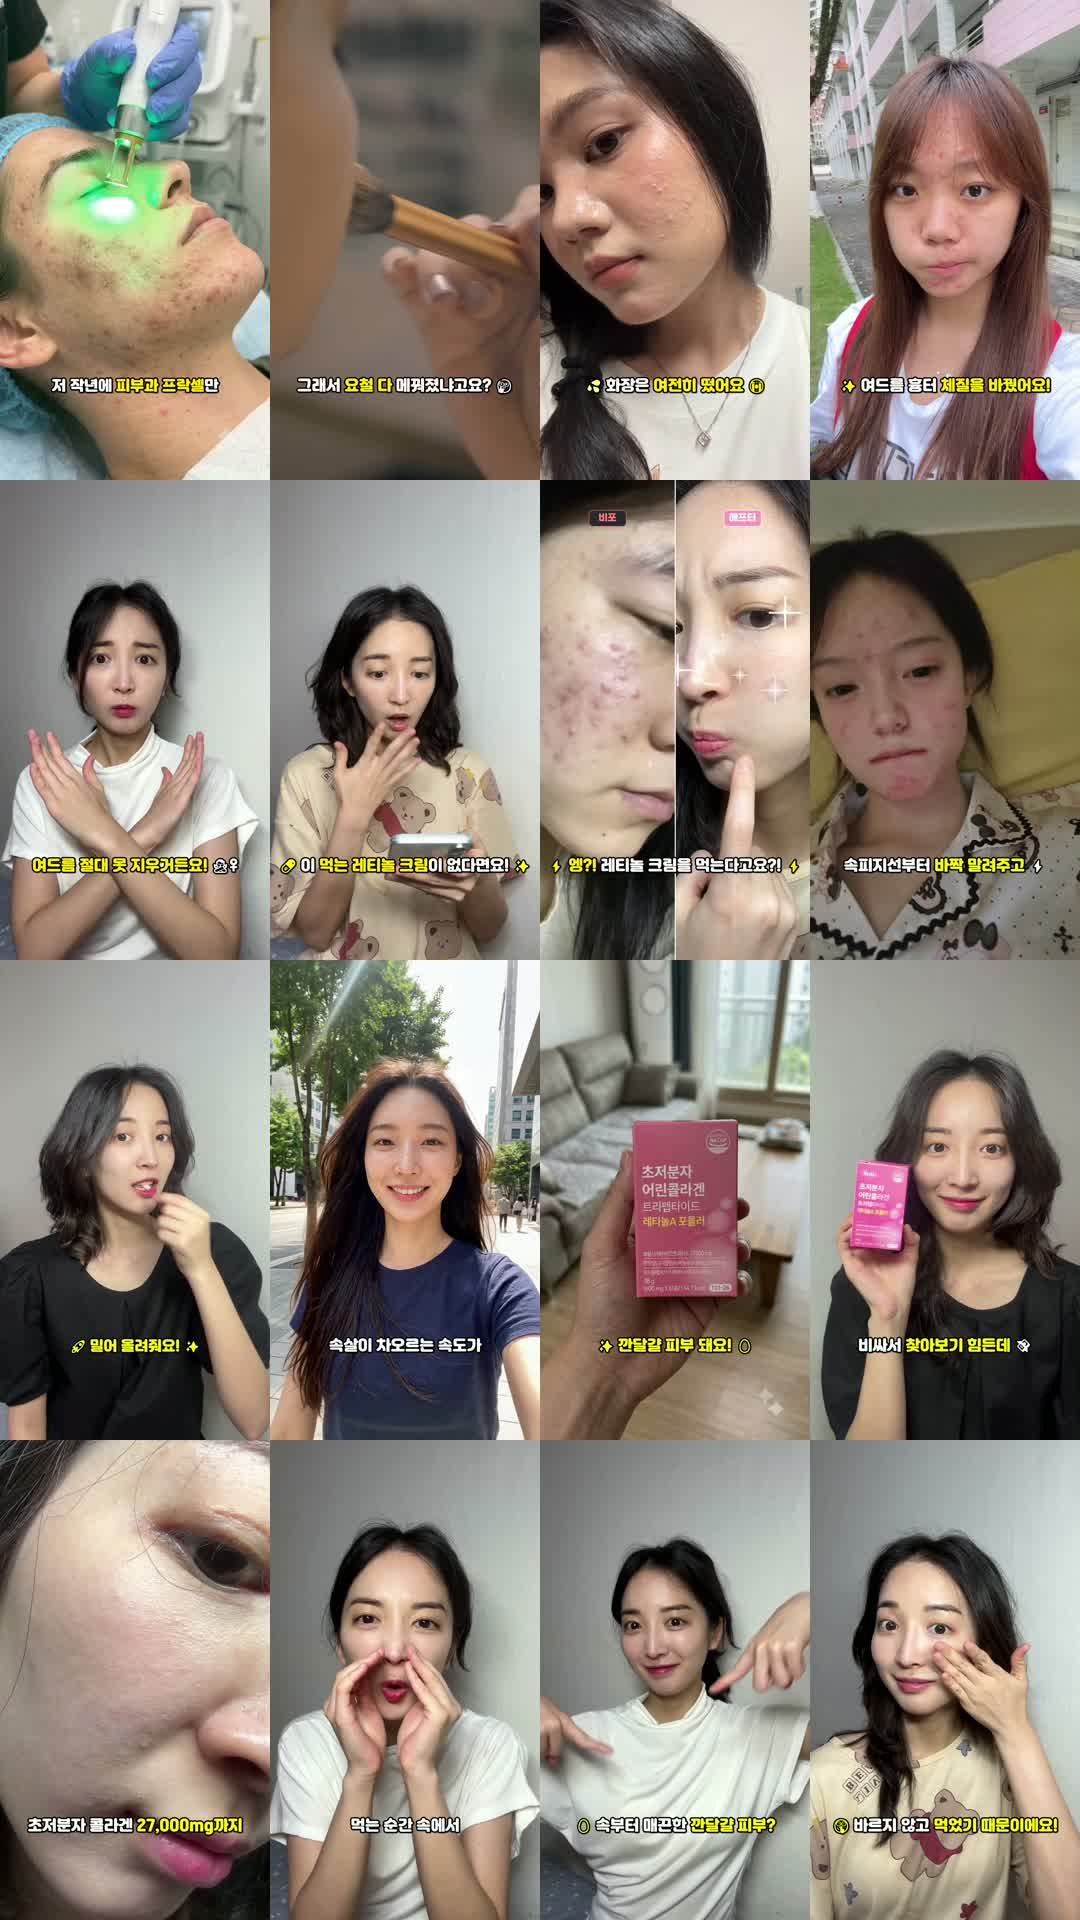
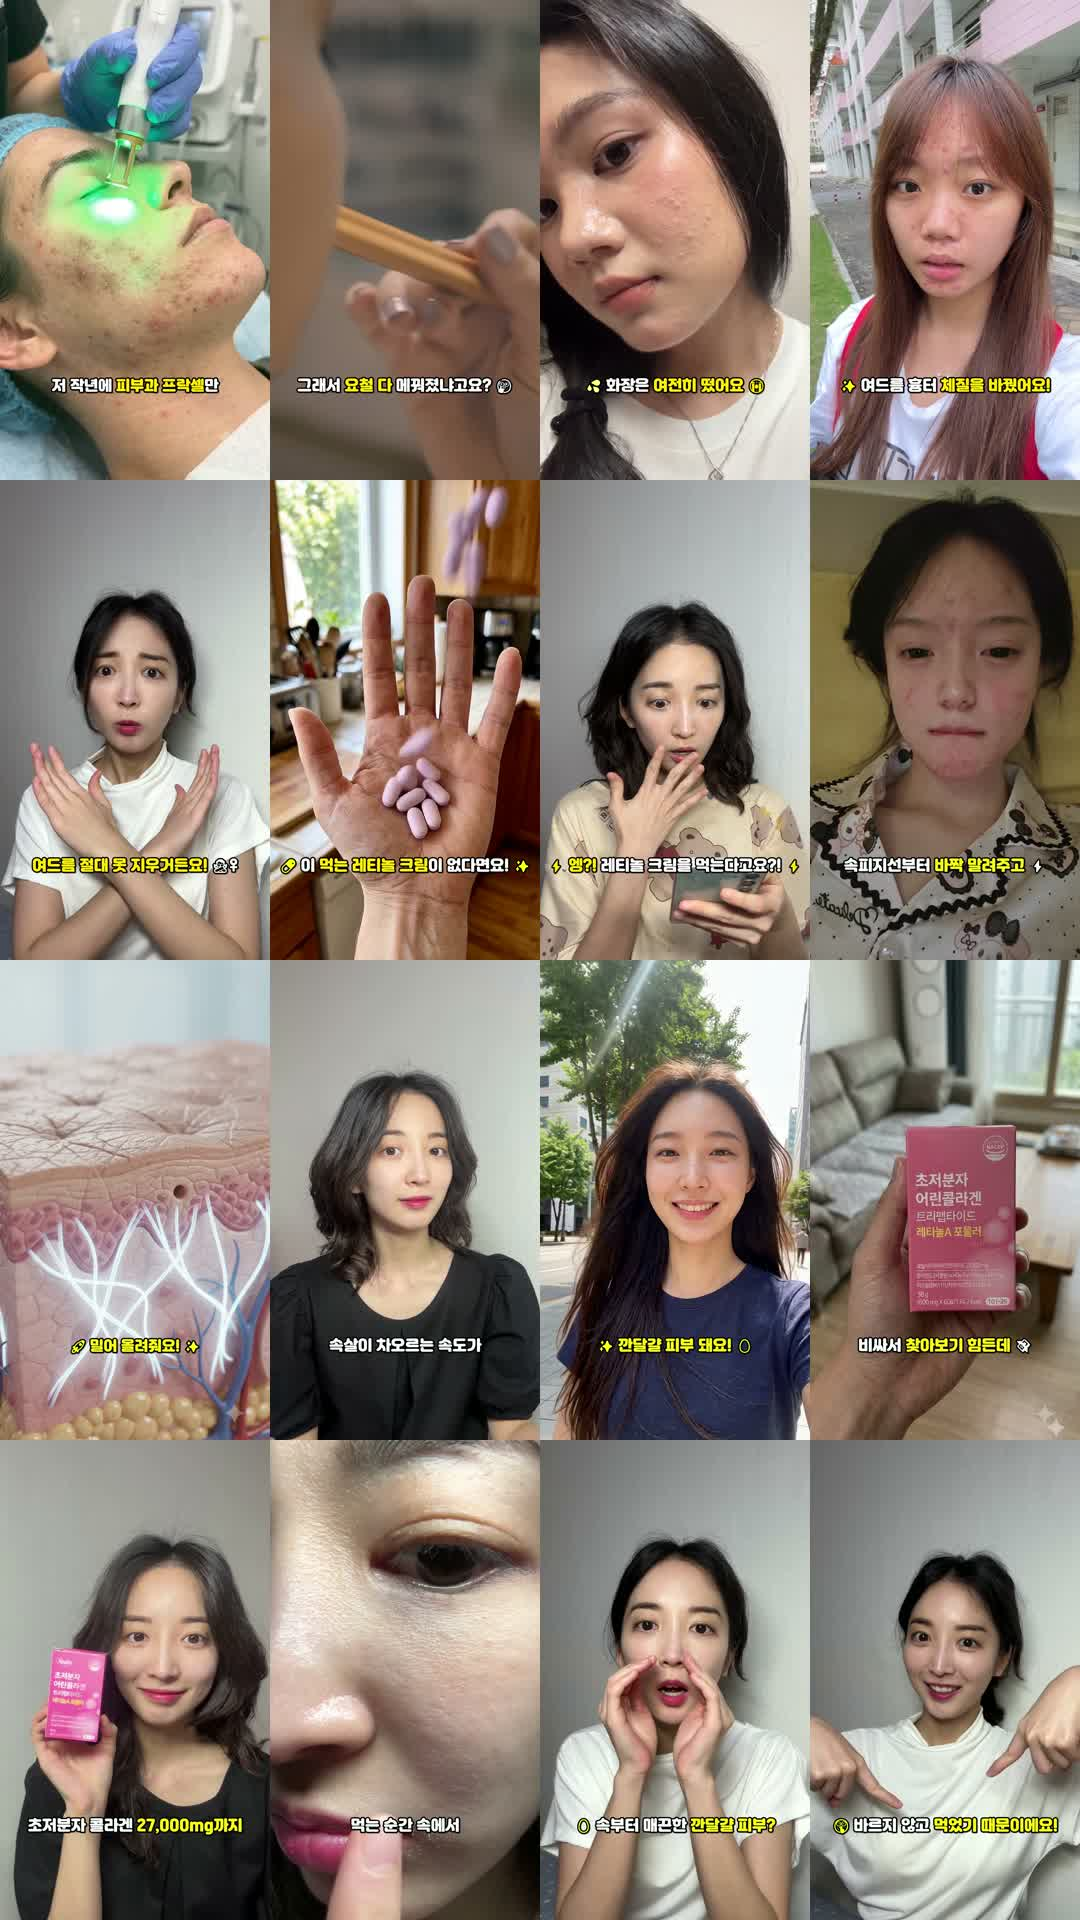
fix: calibrate exact 47.36s visual duration and strict audio muxing

diff --git a/render_ad17_fish_master.py b/render_ad17_fish_master.py
@@ -213,8 +213,8 @@ def render_all_cuts():
         },
         {
             "id": 18, "name": "c18_cheek_closeup",
-            "asset": resolve_asset(os.path.join(MODEL_DIR, "피부 클로즈업2 - Trim.mp4")),
-            "ss": 0.5, "dur": 2.642, "zoom": True, "hflip": False
+            "asset": resolve_asset(os.path.join(MODEL_DIR, "피부 클로즈업3 - Trim.mp4")),
+            "ss": 0.3, "dur": 2.642, "zoom": True, "hflip": False
         },
         # Scene 7: Climax & Ending CTA (40.020s ~ 47.361s, dur: 7.341)
         {
@@ -230,7 +230,7 @@ def render_all_cuts():
         {
             "id": 21, "name": "c21_outro_hold_smile",
             "asset": resolve_asset(os.path.join(MODEL_DIR, "환하게 웃는 장면 - Trim.mp4")),
-            "ss": 0.5, "dur": 2.541, "zoom": True, "hflip": False
+            "ss": 0.3, "dur": 3.170, "zoom": True, "hflip": False
         }
     ]
     
@@ -238,37 +238,54 @@ def render_all_cuts():
     print(f">> Rendering {len(cuts)} balanced cuts (CRITICAL: -an applied to all chunks)...")
     for cut in cuts:
         chunk_out = os.path.join(CHUNK_DIR, f"{cut['name']}.mp4")
-        if cut.get("prebuilt") and os.path.exists(cut["asset"]):
-            rendered_chunks.append(cut["asset"])
-            continue
-            
         dur = cut["dur"]
         ss = cut["ss"]
         asset = cut["asset"]
         
-        vf_filters = []
-        vf_filters.append("scale=1080:1920:force_original_aspect_ratio=increase,crop=1080:1920")
-        
-        if cut.get("hflip"):
-            vf_filters.append("hflip")
+        # Check if prebuilt or already rendered with accurate duration
+        if cut.get("prebuilt") and os.path.exists(cut["asset"]):
+            rendered_chunks.append(cut["asset"])
+            continue
             
-        if cut.get("zoom"):
-            vf_filters.append("scale=1242:2208,zoompan=z='min(zoom+0.0012,1.15)':x='iw/2-(iw/zoom/2)':y='ih/2-(ih/zoom/2)':d=1:s=1080x1920:fps=30")
+        need_render = True
+        if os.path.exists(chunk_out):
+            try:
+                p_res = subprocess.run(['ffprobe', '-v', 'error', '-show_entries', 'format=duration', '-of', 'default=noprint_wrappers=1:nokey=1', chunk_out], capture_output=True, text=True)
+                cur_dur = float(p_res.stdout.strip())
+                if abs(cur_dur - dur) < 0.05:
+                    need_render = False
+                    rendered_chunks.append(chunk_out)
+            except Exception:
+                pass
+                
+        if need_render:
+            vf_filters = []
+            vf_filters.append("scale=1080:1920:force_original_aspect_ratio=increase,crop=1080:1920")
             
-        vf_str = ",".join(vf_filters)
-        
-        cmd = [
-            'ffmpeg', '-y',
-            '-ss', str(ss), '-t', str(dur), '-i', asset,
-            '-vf', vf_str,
-            '-c:v', 'libx264', '-preset', 'veryfast', '-crf', '18', '-pix_fmt', 'yuv420p',
-            '-r', '30',
-            '-an', # CRITICAL: NO CAMERA AUDIO!
-            chunk_out
-        ]
-        subprocess.run(cmd, check=True, capture_output=True)
-        rendered_chunks.append(chunk_out)
-        print(f"   [{cut['id']:02d}/21] Rendered {cut['name']} ({dur:.3f}s, silent video)")
+            if cut.get("hflip"):
+                vf_filters.append("hflip")
+                
+            if cut.get("zoom"):
+                vf_filters.append(f"scale=eval=frame:w='1080*(1+0.15*t/{dur:.3f})':h='1920*(1+0.15*t/{dur:.3f})',crop=1080:1920")
+                
+            vf_filters.append("fps=30,tpad=stop_mode=clone:stop_duration=5")
+            vf_str = ",".join(vf_filters)
+            
+            cmd = [
+                'ffmpeg', '-y',
+                '-ss', str(ss),
+                '-i', asset,
+                '-vf', vf_str,
+                '-t', str(dur),
+                '-c:v', 'libx264', '-preset', 'veryfast', '-crf', '18', '-pix_fmt', 'yuv420p',
+                '-an', # CRITICAL: ZERO CAMERA AUDIO
+                chunk_out
+            ]
+            subprocess.run(cmd, check=True, capture_output=True)
+            rendered_chunks.append(chunk_out)
+            print(f"   [{cut['id']:02d}/21] Rendered {cut['name']} (target: {dur:.3f}s, silent video)")
+        else:
+            print(f"   [{cut['id']:02d}/21] Reusing {cut['name']} (duration verified: {dur:.3f}s)")
         
     return rendered_chunks
 
@@ -277,15 +294,20 @@ def concat_and_burn():
     concat_txt = os.path.join(BUILD_DIR, "concat_list_v3.txt")
     with open(concat_txt, "w", encoding="utf-8") as f:
         for c in chunks:
-            c_norm = c.replace('\\', '/')
-            f.write(f"file '{c_norm}'\n")
+            # Use relative path from BUILD_DIR to avoid Windows unicode path demuxer quirks
+            rel_p = os.path.relpath(c, BUILD_DIR).replace('\\', '/')
+            f.write(f"file '{rel_p}'\n")
             
     raw_merged = os.path.join(BUILD_DIR, "raw_visual_merged_v3.mp4")
     print(">> Concatenating silent visual chunks...")
     subprocess.run([
-        'ffmpeg', '-y', '-f', 'concat', '-safe', '0', '-i', concat_txt,
+        'ffmpeg', '-y', '-f', 'concat', '-safe', '0', '-i', "concat_list_v3.txt",
         '-c', 'copy', raw_merged
-    ], check=True, capture_output=True)
+    ], cwd=BUILD_DIR, check=True, capture_output=True)
+    
+    probe_raw = subprocess.run(['ffprobe', '-v', 'error', '-show_entries', 'format=duration', '-of', 'default=noprint_wrappers=1:nokey=1', raw_merged], capture_output=True, text=True)
+    raw_dur = float(probe_raw.stdout.strip())
+    print(f">> Merged Visual Track Duration: {raw_dur:.3f}s")
     
     master_audio = os.path.join(BUILD_DIR, "master_audio_fish.wav")
     ass_subs = os.path.join(BUILD_DIR, "ad17_fish_subtitles.ass").replace('\\', '/').replace(':', '\\:')
